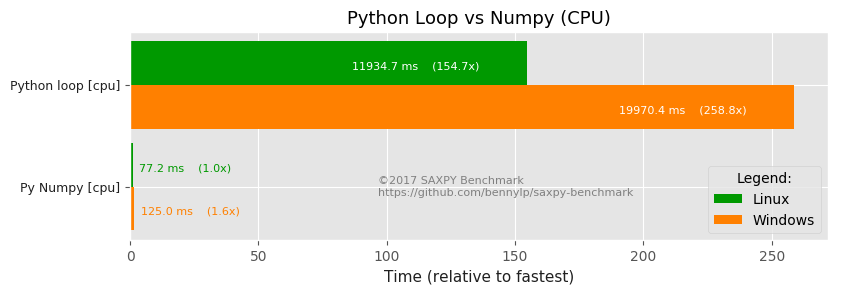
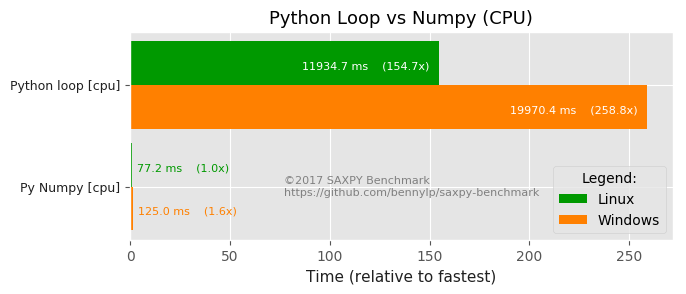
Shorten chart width

diff --git a/results/create_charts.py b/results/create_charts.py
@@ -64,7 +64,7 @@ def create_chart0(spec, lang, output_dir):
     y_pos = np.arange(len(df.index)) * TOTAL_HEIGHT
     # print("y_pos:", y_pos)
 
-    fig = plt.figure(figsize=(9, 2 + TOTAL_HEIGHT * len(df.index)))
+    fig = plt.figure(figsize=(7, 2 + TOTAL_HEIGHT * len(df.index)))
     ax = plt.subplot(111)
     colors = ['#009900', '#ff8000', '#999900', '#00999999']
     for i, col in enumerate(df.columns):
@@ -83,10 +83,10 @@ def create_chart0(spec, lang, output_dir):
             else:
                 ax.text(y[j] + max_value * 0.01, x[j] + yshift, txt, fontdict={'size': 8}, color=colors[i])
 
-    ax.text(rel.iloc[0, 0] * 5 / 8, y_pos[-1] + BAR_HEIGHT / 2 - 0.01,
+    ax.text(rel.iloc[0, 0] * 4 / 8, y_pos[-1] + BAR_HEIGHT / 2 - 0.01,
             '©%d SAXPY Benchmark' % datetime.date.today().year,
             fontdict={'size': 8}, color='grey')
-    ax.text(rel.iloc[0, 0] * 5 / 8, y_pos[-1] + BAR_HEIGHT / 2 - 0.01 + 0.01 * (len(df.index) * SERIES_CNT),
+    ax.text(rel.iloc[0, 0] * 4 / 8, y_pos[-1] + BAR_HEIGHT / 2 - 0.01 + 0.01 * (len(df.index) * SERIES_CNT),
             'https://github.com/bennylp/saxpy-benchmark',
             fontdict={'size': 8}, color='grey')
 
